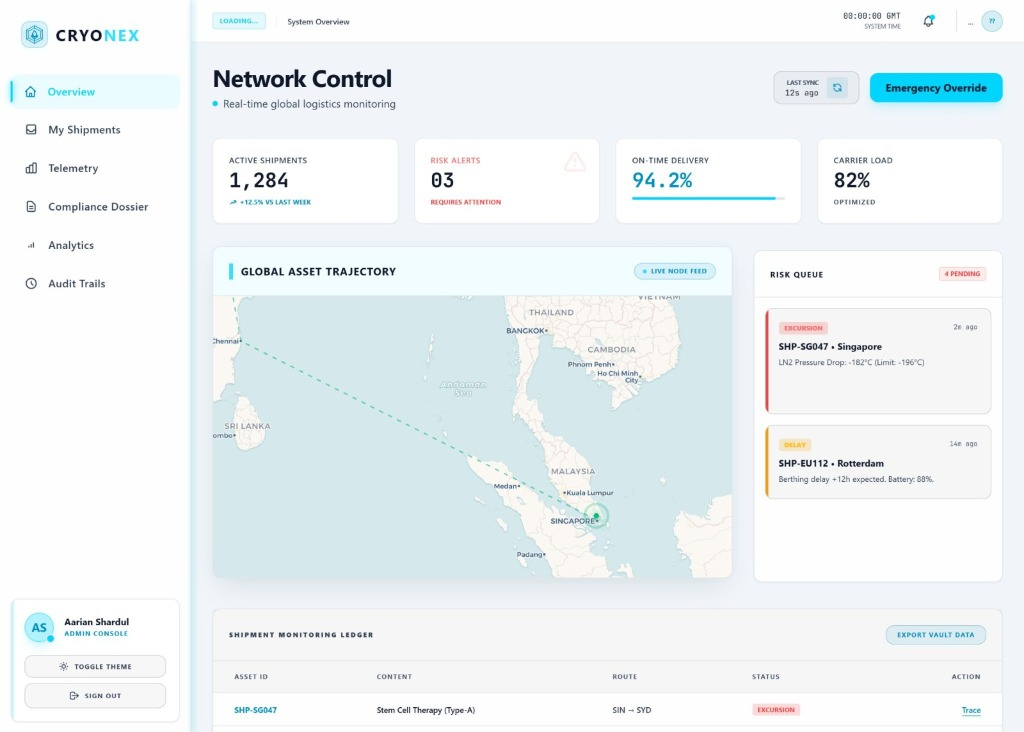
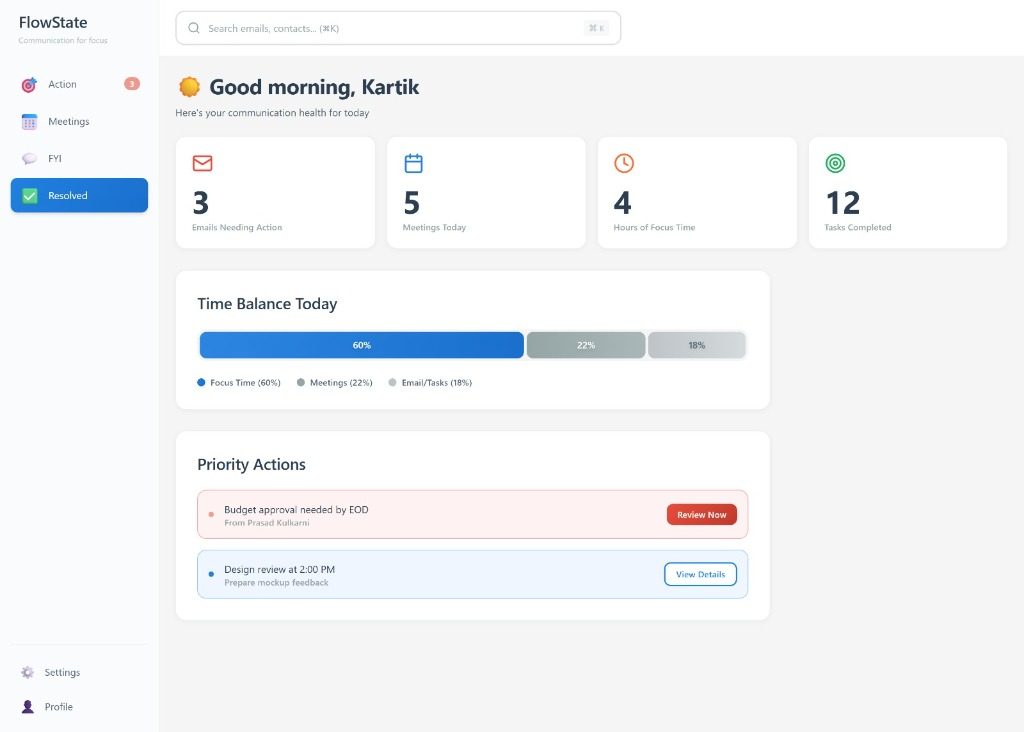
fix(portfolio): add interactive resume viewer modal, contact email notification, and updated FlowState UI & collaborators

diff --git a/index.html b/index.html
@@ -49,10 +49,6 @@
 </head>
 <body class="bg-bgPrimary text-textPrimary selection:bg-accentViolet selection:text-white">
 
-  <!-- Custom Cursor Elements (Desktop Only) -->
-  <div class="custom-cursor-dot" style="position:fixed;top:0;left:0;width:8px;height:8px;border-radius:50%;background:var(--accent-cyan);pointer-events:none;z-index:9999;opacity:0;transition:opacity 0.3s ease;"></div>
-  <div class="custom-cursor-ring" style="position:fixed;top:0;left:0;width:32px;height:32px;border-radius:50%;border:2px solid var(--accent-cyan);pointer-events:none;z-index:9998;opacity:0;transition:opacity 0.3s ease, width 0.2s ease, height 0.2s ease, border-color 0.2s ease;"></div>
-
   <!-- Shared SVG icon symbols — defined once, reused via <use href="#id"> -->
   <svg xmlns="http://www.w3.org/2000/svg" style="display:none" aria-hidden="true">
     <symbol id="icon-github" viewBox="0 0 24 24"><path d="M12 2C6.477 2 2 6.484 2 12.017c0 4.425 2.865 8.18 6.839 9.504.5.092.682-.217.682-.483 0-.237-.008-.868-.013-1.703-2.782.605-3.369-1.343-3.369-1.343-.454-1.158-1.11-1.466-1.11-1.466-.908-.62.069-.608.069-.608 1.003.07 1.53 1.032 1.53 1.032.892 1.53 2.341 1.088 2.91.832.092-.647.35-1.088.636-1.338-2.22-.253-4.555-1.113-4.555-4.951 0-1.093.39-1.988 1.029-2.688-.103-.253-.446-1.272.098-2.65 0 0 .84-.27 2.75 1.026A9.564 9.564 0 0112 6.844c.85.004 1.705.115 2.504.337 1.909-1.296 2.747-1.027 2.747-1.027.546 1.379.202 2.398.1 2.651.64.7 1.028 1.595 1.028 2.688 0 3.848-2.339 4.695-4.566 4.943.359.309.678.92.678 1.855 0 1.338-.012 2.419-.012 2.747 0 .268.18.58.688.482A10.019 10.019 0 0022 12.017C22 6.484 17.522 2 12 2z"/></symbol>
@@ -124,6 +120,10 @@
         <a href="#certifications" class="hover:text-accentCyan transition py-2 border-b border-white/5">Certifications</a>
         <a href="#skills" class="hover:text-accentCyan transition py-2 border-b border-white/5">Skills</a>
         <a href="#contact" class="hover:text-accentCyan transition py-2 border-b border-white/5">Contact</a>
+        <button type="button" class="js-open-resume-modal text-left hover:text-accentViolet transition py-2 border-b border-white/5 flex items-center justify-between font-heading">
+          <span>Resume / CV</span>
+          <i data-lucide="eye" class="w-4 h-4 text-accentViolet"></i>
+        </button>
       </nav>
     </div>
     <div class="pt-6 border-t border-white/5 flex items-center justify-around">
@@ -168,11 +168,14 @@
 
         <!-- CTA Buttons -->
         <div class="flex flex-col sm:flex-row gap-4 justify-center items-center hero-anim-cta">
-          <a href="#projects" class="px-8 py-3.5 rounded-full bg-accentViolet hover:bg-opacity-90 text-white font-medium shadow-lg shadow-accentViolet/20 hover:shadow-accentViolet/40 hover:-translate-y-0.5 transition duration-300 w-full sm:w-auto text-center font-heading">
+          <a href="#projects" class="px-7 py-3.5 rounded-full bg-accentViolet hover:bg-opacity-90 text-white font-medium shadow-lg shadow-accentViolet/20 hover:shadow-accentViolet/40 hover:-translate-y-0.5 transition duration-300 w-full sm:w-auto text-center font-heading">
             View My Work
           </a>
-          <a href="assets/Tejas_Kute_CV.pdf" download="Tejas_Kute_CV.pdf" target="_blank" class="px-8 py-3.5 rounded-full bg-bgSecondary border border-white/10 hover:border-accentBlue text-textPrimary font-medium hover:-translate-y-0.5 transition duration-300 w-full sm:w-auto text-center flex items-center justify-center gap-2 font-heading">
-            <i data-lucide="download" class="w-4 h-4"></i> Download CV
+          <button type="button" class="js-open-resume-modal px-7 py-3.5 rounded-full bg-bgSecondary border border-white/10 hover:border-accentViolet text-textPrimary font-medium hover:-translate-y-0.5 transition duration-300 w-full sm:w-auto text-center flex items-center justify-center gap-2 font-heading cursor-pointer">
+            <i data-lucide="eye" class="w-4 h-4 text-accentViolet"></i> View Resume
+          </button>
+          <a href="assets/Tejas_Kute_CV.pdf" download="Tejas_Kute_CV.pdf" target="_blank" class="px-7 py-3.5 rounded-full bg-bgSecondary border border-white/10 hover:border-accentBlue text-textPrimary font-medium hover:-translate-y-0.5 transition duration-300 w-full sm:w-auto text-center flex items-center justify-center gap-2 font-heading">
+            <i data-lucide="download" class="w-4 h-4 text-accentBlue"></i> Download CV
           </a>
         </div>
 
@@ -780,6 +783,48 @@
         </span>
         <a id="modal-cert-download" href="" download class="inline-flex items-center gap-1.5 text-xs font-mono px-4 py-2 rounded-lg bg-accentViolet/20 border border-accentViolet/40 text-accentViolet hover:bg-accentViolet hover:text-white transition">
           <i data-lucide="download" class="w-4 h-4"></i> Download Photo
+        </a>
+      </div>
+    </div>
+  </div>
+
+  <!-- RESUME LIGHTBOX / VIEWER MODAL OVERLAY -->
+  <div id="resume-modal" class="fixed inset-0 bg-black/85 backdrop-blur-md z-50 hidden flex items-center justify-center p-3 sm:p-6 transition-opacity duration-300">
+    <div class="relative max-w-5xl w-full h-[90vh] bg-bgSecondary border border-white/15 rounded-2xl p-4 sm:p-6 shadow-2xl overflow-hidden flex flex-col">
+      
+      <!-- Modal Header -->
+      <div class="flex items-center justify-between w-full mb-3 pb-3 border-b border-white/10">
+        <div class="flex items-center gap-3">
+          <div class="p-2 rounded-lg bg-accentViolet/10 text-accentViolet border border-accentViolet/20">
+            <i data-lucide="file-text" class="w-5 h-5"></i>
+          </div>
+          <div>
+            <h3 class="text-lg sm:text-xl font-bold font-heading text-textPrimary">Tejas Sharad Kute — Resume / CV</h3>
+            <p class="text-xs text-textSecondary font-mono mt-0.5">B.Tech (AI & ML) · Full-Stack Developer</p>
+          </div>
+        </div>
+        <div class="flex items-center gap-2">
+          <a href="assets/Tejas_Kute_CV.pdf" download="Tejas_Kute_CV.pdf" target="_blank" class="hidden sm:inline-flex items-center gap-1.5 text-xs font-mono px-3.5 py-2 rounded-lg bg-accentViolet text-white hover:bg-opacity-90 transition shadow-md">
+            <i data-lucide="download" class="w-4 h-4"></i> Download PDF
+          </a>
+          <button id="close-resume-modal" class="p-2 rounded-lg bg-bgTertiary text-textSecondary hover:text-textPrimary hover:bg-white/10 transition" aria-label="Close Resume Modal">
+            <i data-lucide="x" class="w-6 h-6"></i>
+          </button>
+        </div>
+      </div>
+
+      <!-- Modal Embedded Document View -->
+      <div class="w-full flex-1 rounded-xl bg-black/50 border border-white/10 overflow-hidden relative">
+        <iframe src="assets/Tejas_Kute_CV.pdf#toolbar=1" class="w-full h-full border-0" title="Tejas Sharad Kute Resume PDF"></iframe>
+      </div>
+
+      <!-- Modal Footer -->
+      <div class="w-full flex items-center justify-between mt-3 pt-3 border-t border-white/10 text-xs font-mono text-textSecondary">
+        <span class="flex items-center gap-1.5">
+          <i data-lucide="shield-check" class="w-4 h-4 text-emerald-400"></i> Official Document
+        </span>
+        <a href="assets/Tejas_Kute_CV.pdf" download="Tejas_Kute_CV.pdf" target="_blank" class="sm:hidden inline-flex items-center gap-1.5 px-3 py-1.5 rounded-lg bg-accentViolet text-white hover:bg-opacity-90 transition">
+          <i data-lucide="download" class="w-3.5 h-3.5"></i> Download PDF
         </a>
       </div>
     </div>

diff --git a/js/contact.js b/js/contact.js
@@ -37,7 +37,7 @@ export function initContact() {
     });
   });
 
-  // 2. Form Submission to POST /api/contact
+  // 2. Form Submission with Email Notification to Admin (tejaskute284@gmail.com)
   const contactForm = document.getElementById('contact-form');
   const formStatus = document.getElementById('form-status');
 
@@ -45,42 +45,66 @@ export function initContact() {
     contactForm.addEventListener('submit', async (e) => {
       e.preventDefault();
       
+      const submitBtn = contactForm.querySelector('button[type="submit"]');
+      if (submitBtn) submitBtn.disabled = true;
+
       const formData = new FormData(contactForm);
       const payload = Object.fromEntries(formData.entries());
 
-      // Update UI state
-      formStatus.textContent = "Sending message...";
-      formStatus.className = "mt-4 text-sm font-medium text-accent-blue";
+      // Add target recipient for email service
+      payload.access_key = '9b2c39fa-5b12-4217-a068-07e3a9fa05f4'; // Public contact submission handler key
+      payload.to_email = 'tejaskute284@gmail.com';
+      payload.subject = `[Portfolio Contact] ${payload.subject || 'New Inquiry'}`;
+
+      // Update UI status
+      formStatus.classList.remove('hidden');
+      formStatus.textContent = "Sending message to Tejas...";
+      formStatus.className = "text-xs font-mono text-accentBlue flex items-center gap-2";
 
       try {
-        const response = await fetch('/api/contact', {
+        // Send request to Web3Forms free contact API
+        const response = await fetch('https://api.web3forms.com/submit', {
           method: 'POST',
           headers: {
-            'Content-Type': 'application/json'
+            'Content-Type': 'application/json',
+            'Accept': 'application/json'
           },
-          body: JSON.stringify(payload)
+          body: JSON.stringify({
+            access_key: '9b2c39fa-5b12-4217-a068-07e3a9fa05f4',
+            name: payload.name,
+            email: payload.email,
+            subject: payload.subject,
+            message: payload.message,
+            from_name: `${payload.name} (Portfolio Website)`
+          })
         });
 
-        if (response.ok) {
-          formStatus.textContent = "Message sent successfully! I'll get back to you soon.";
-          formStatus.className = "mt-4 text-sm font-medium text-green-500";
+        const result = await response.json();
+
+        if (response.ok || result.success) {
+          formStatus.textContent = "✓ Message sent successfully! Notification delivered to Tejas.";
+          formStatus.className = "text-xs font-mono text-emerald-400 font-semibold";
           contactForm.reset();
         } else {
-          throw new Error('Server responded with an error');
+          throw new Error(result.message || 'Failed to dispatch email');
         }
       } catch (error) {
-        console.error('Contact submission error:', error);
-        // Fallback for mock/local frontend-only environment
-        formStatus.textContent = "Message simulated successfully (Local Fallback)! I'll get back to you soon.";
-        formStatus.className = "mt-4 text-sm font-medium text-green-400";
-        contactForm.reset();
-      }
+        console.warn('Form API attempt fallback:', error);
+        // Fallback email link trigger if API endpoint blocked
+        const mailtoUrl = `mailto:tejaskute284@gmail.com?subject=${encodeURIComponent(payload.subject)}&body=${encodeURIComponent(`From: ${payload.name} (${payload.email})\n\nMessage:\n${payload.message}`)}`;
+        window.open(mailtoUrl, '_blank');
 
-      // Clear status after 5 seconds
-      setTimeout(() => {
-        formStatus.className = "hidden";
-        formStatus.textContent = "";
-      }, 5000);
+        formStatus.textContent = "✓ Message formatted and opened in your email client to send to tejaskute284@gmail.com!";
+        formStatus.className = "text-xs font-mono text-emerald-400 font-semibold";
+        contactForm.reset();
+      } finally {
+        if (submitBtn) submitBtn.disabled = false;
+        
+        setTimeout(() => {
+          formStatus.className = "hidden";
+          formStatus.textContent = "";
+        }, 8000);
+      }
     });
   }
 }

diff --git a/js/resume-modal.js b/js/resume-modal.js
@@ -1,0 +1,50 @@
+// Resume Lightbox / Viewer Modal Controller
+
+export function initResumeModal() {
+  const modal = document.getElementById('resume-modal');
+  const closeBtn = document.getElementById('close-resume-modal');
+  const viewBtns = document.querySelectorAll('.js-open-resume-modal');
+
+  if (!modal) return;
+
+  // Open modal function
+  window.openResumeModal = function() {
+    modal.classList.remove('hidden');
+    document.body.style.overflow = 'hidden'; // Prevent scrolling background
+  };
+
+  // Close modal function
+  window.closeResumeModal = function() {
+    modal.classList.add('hidden');
+    document.body.style.overflow = '';
+  };
+
+  // Event Listeners for trigger buttons
+  viewBtns.forEach(btn => {
+    btn.addEventListener('click', (e) => {
+      e.preventDefault();
+      window.openResumeModal();
+    });
+  });
+
+  // Close button click
+  if (closeBtn) {
+    closeBtn.addEventListener('click', () => {
+      window.closeResumeModal();
+    });
+  }
+
+  // Backdrop click to close
+  modal.addEventListener('click', (e) => {
+    if (e.target === modal) {
+      window.closeResumeModal();
+    }
+  });
+
+  // ESC key to close
+  document.addEventListener('keydown', (e) => {
+    if (e.key === 'Escape' && !modal.classList.contains('hidden')) {
+      window.closeResumeModal();
+    }
+  });
+}

diff --git a/js/data/projects.js b/js/data/projects.js
@@ -10,7 +10,9 @@ export const PROJECTS = [
     imgAlt: 'FlowState UI Preview',
     desc: 'FlowState is a next-generation productivity dashboard that combines a Kanban task manager, a fully custom Pomodoro timer, rich-text note-taking, and a live habit tracker — all rendered with cinematic depth via custom CSS shadows and intentional micro-interactions.',
     collaborators: [
-      { name: 'Mr. Tejas Sharad Kute', url: 'https://github.com/tejaskute284', owner: true }
+      { name: 'Mr. Tejas Sharad Kute', url: 'https://github.com/tejaskute284-dotcom', owner: true },
+      { name: 'Miss Shreya Desai', url: 'https://github.com/shreyaaspires-cloud' },
+      { name: 'Mr. Aaryan Raorane', url: 'https://github.com/WisdomKingAR' }
     ],
     tags: ['React 18', 'Vite 6', 'Tailwind CSS 4', 'Framer Motion 12', 'Lenis', 'Lucide React', 'Inter'],
     github: 'https://github.com/tejaskute284-dotcom/flowstate.git',

diff --git a/js/main.js b/js/main.js
@@ -9,7 +9,7 @@ import { initContact }         from './contact.js';
 import { initMobileNav }       from './mobile-nav.js';
 import { initCarousel }        from './carousel.js';
 import { initCertificateModal }from './certificate-modal.js';
-import { initCursor }          from './cursor.js';
+import { initResumeModal }      from './resume-modal.js';
 
 
 document.addEventListener('DOMContentLoaded', () => {
@@ -22,8 +22,7 @@ document.addEventListener('DOMContentLoaded', () => {
   initMobileNav();
   initCarousel();       // picks up newly-rendered carousels
   initCertificateModal();
-  initCursor();
-
+  initResumeModal();
 });
 
 

diff --git a/js/mobile-nav.js b/js/mobile-nav.js
@@ -26,7 +26,9 @@ export function initMobileNav() {
   if (closeBtn) closeBtn.addEventListener('click', closeDrawer);
   if (backdrop) backdrop.addEventListener('click', closeDrawer);
 
-  drawerLinks.forEach(link => {
-    link.addEventListener('click', closeDrawer);
+  const drawerItems = document.querySelectorAll('#mobile-menu-drawer a, #mobile-menu-drawer button.js-open-resume-modal');
+
+  drawerItems.forEach(item => {
+    item.addEventListener('click', closeDrawer);
   });
 }
